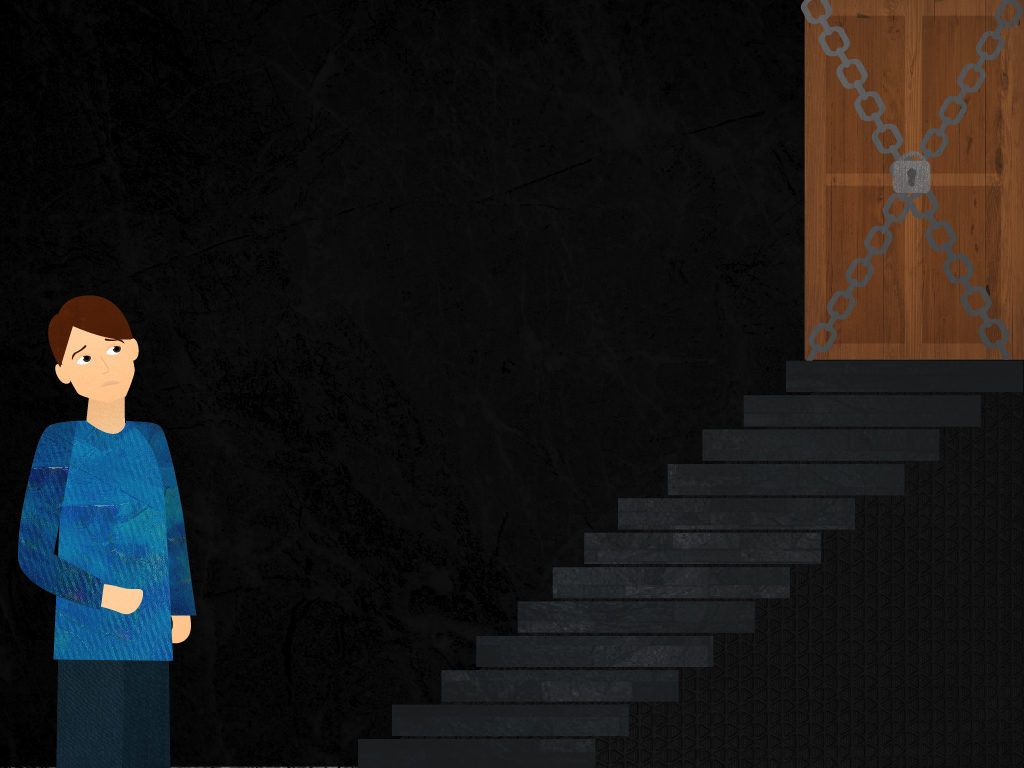
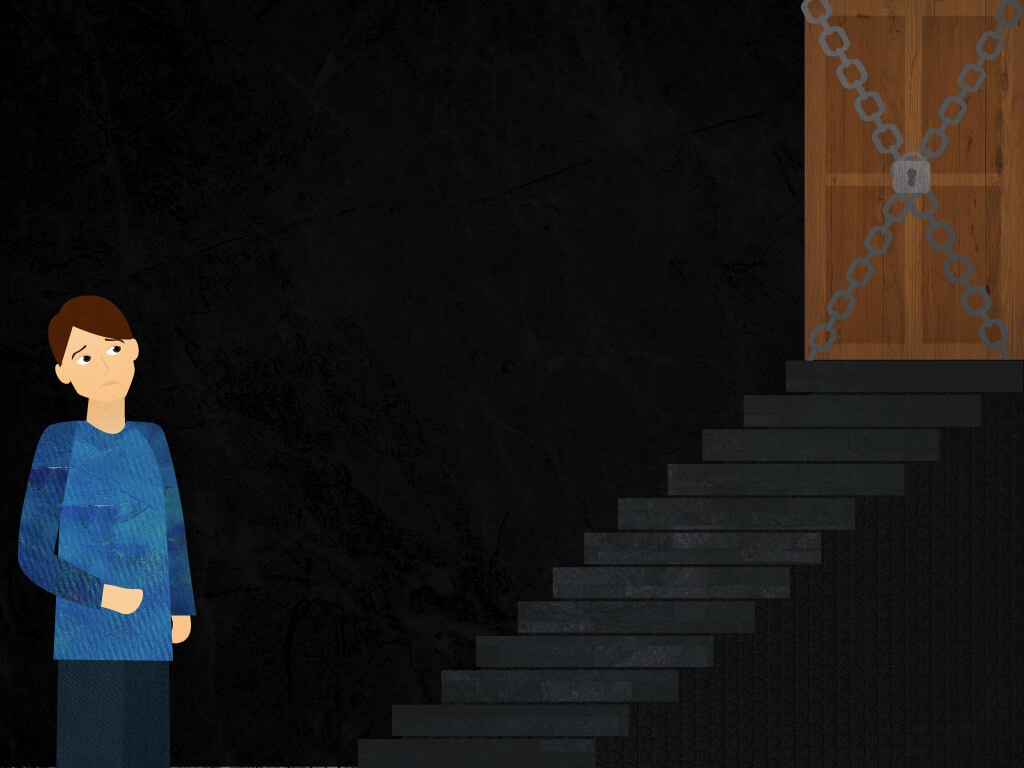
Smaller images. New email. PR #86 #85

Changed region(s): [[0.0312, 0.5625, 0.1875, 0.875]]

diff --git a/app.js b/app.js
@@ -543,13 +543,13 @@ function updateLink (link, options, obj) {
 /* 3 */
 /***/ (function(module, exports, __webpack_require__) {
 
-module.exports = __webpack_require__.p + "ourproject-image1.jpg?a8817eae407a978b0c253aea602bd03c";
+module.exports = __webpack_require__.p + "ourproject-image1.jpg?e4ed6253384105fe90f1e130daceb668";
 
 /***/ }),
 /* 4 */
 /***/ (function(module, exports, __webpack_require__) {
 
-module.exports = __webpack_require__.p + "ama_1.jpg?29b97a0fd04364118924b8b467255ca3";
+module.exports = __webpack_require__.p + "ama_1.jpg?2e9591dd1923f1b2c1670653a844780e";
 
 /***/ }),
 /* 5 */
@@ -10311,7 +10311,7 @@ var __WEBPACK_AMD_DEFINE_ARRAY__, __WEBPACK_AMD_DEFINE_RESULT__;
 
 	var _neontribe$contemplating_action$Views_Config$helplineDisplay = A2(_elm_lang$core$Basics_ops['++'], '0000', A2(_elm_lang$core$Basics_ops['++'], ' ', A2(_elm_lang$core$Basics_ops['++'], '000', A2(_elm_lang$core$Basics_ops['++'], ' ', '000'))));
 	var _neontribe$contemplating_action$Views_Config$helpline = '0000000000';
-	var _neontribe$contemplating_action$Views_Config$email = 'ca@neontribe.co.uk';
+	var _neontribe$contemplating_action$Views_Config$email = 'hello@contemplatingaction.org.uk';
 	var _neontribe$contemplating_action$Views_Config$appTitle = 'Contemplating Action';
 
 	var _neontribe$contemplating_action$Views_Footer$footerContent = A2(_elm_lang$html$Html$footer, {
@@ -11797,37 +11797,37 @@ var __WEBPACK_AMD_DEFINE_ARRAY__, __WEBPACK_AMD_DEFINE_RESULT__;
 /* 36 */
 /***/ (function(module, exports, __webpack_require__) {
 
-module.exports = __webpack_require__.p + "ourproject-image2.jpg?c9ac9614f8ad1f1ce1ee3875570a26e4";
+module.exports = __webpack_require__.p + "ourproject-image2.jpg?e64b4a0b8c449146f49d831680622a62";
 
 /***/ }),
 /* 37 */
 /***/ (function(module, exports, __webpack_require__) {
 
-module.exports = __webpack_require__.p + "ourproject-image3.jpg?473b2314a245320a3b56f265bc2cdd6d";
+module.exports = __webpack_require__.p + "ourproject-image3.jpg?7311312ee2c48f39a318c5e49ea3a2b4";
 
 /***/ }),
 /* 38 */
 /***/ (function(module, exports, __webpack_require__) {
 
-module.exports = __webpack_require__.p + "ourproject-image4.jpg?ba223b1146b19074b33d782aacc9f4bb";
+module.exports = __webpack_require__.p + "ourproject-image4.jpg?762d038572ed3955777d9c328390a8f8";
 
 /***/ }),
 /* 39 */
 /***/ (function(module, exports, __webpack_require__) {
 
-module.exports = __webpack_require__.p + "ama_2.jpg?a78ea6e454052fac10c25b0c95215817";
+module.exports = __webpack_require__.p + "ama_2.jpg?43c3172d9b8a7eab8456cf4058a53ec5";
 
 /***/ }),
 /* 40 */
 /***/ (function(module, exports, __webpack_require__) {
 
-module.exports = __webpack_require__.p + "ama_3.jpg?88f4cb965bc55a51c6d3feb266321fe4";
+module.exports = __webpack_require__.p + "ama_3.jpg?af8288c61c89d2b58d1145a320d7c658";
 
 /***/ }),
 /* 41 */
 /***/ (function(module, exports, __webpack_require__) {
 
-module.exports = __webpack_require__.p + "ama_4.jpg?ba9594ec58404c00526caddfd505feb6";
+module.exports = __webpack_require__.p + "ama_4.jpg?3051a8b3c9cf70490162bfe1261d11ef";
 
 /***/ }),
 /* 42 */
